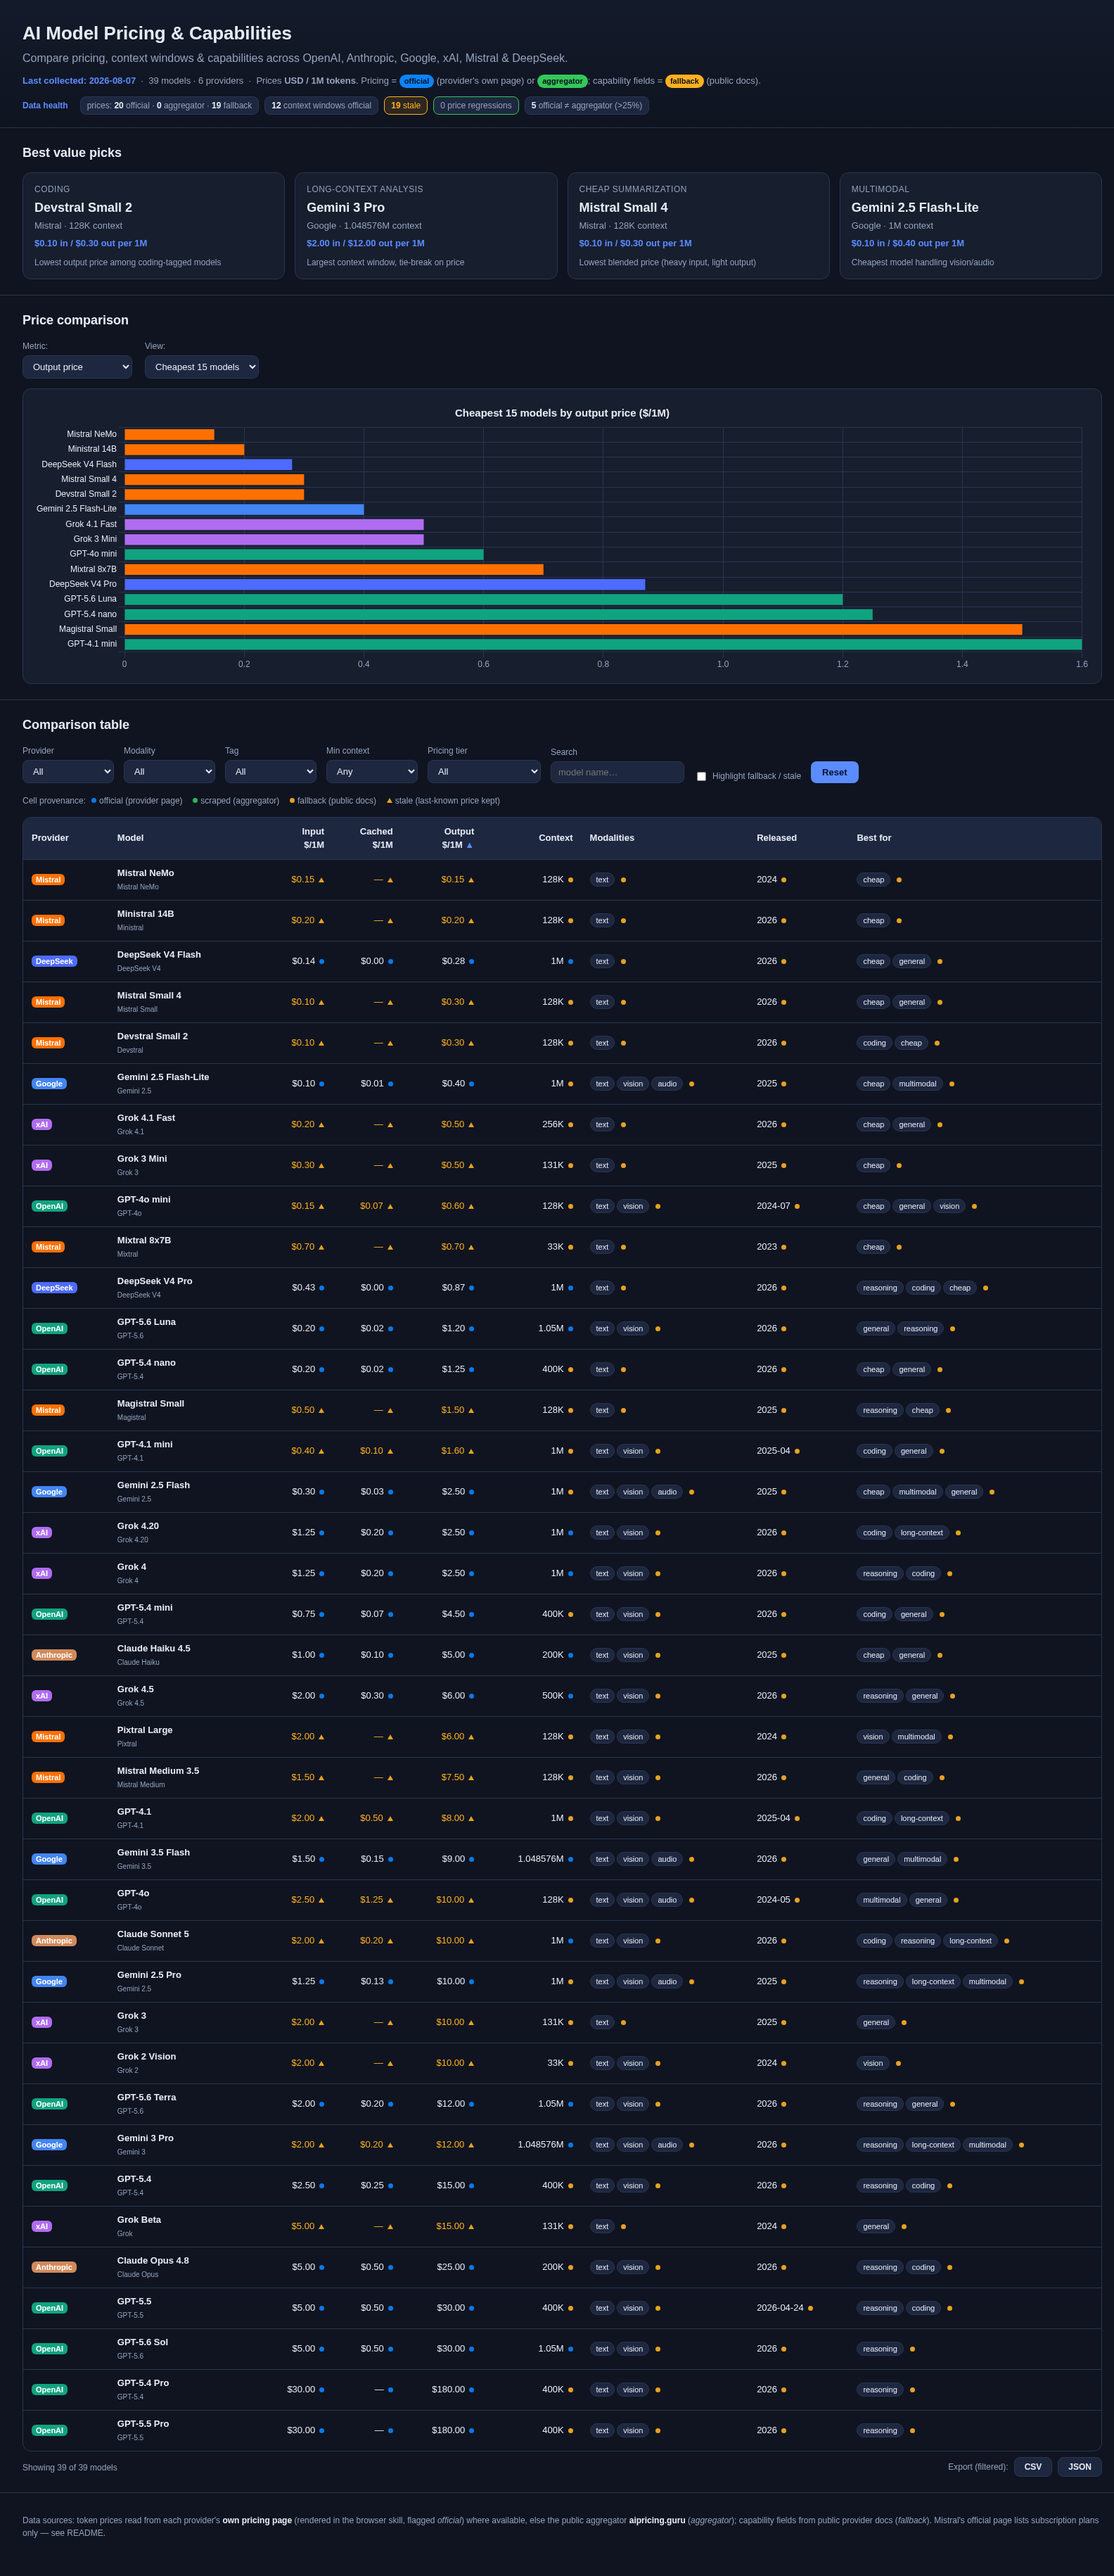
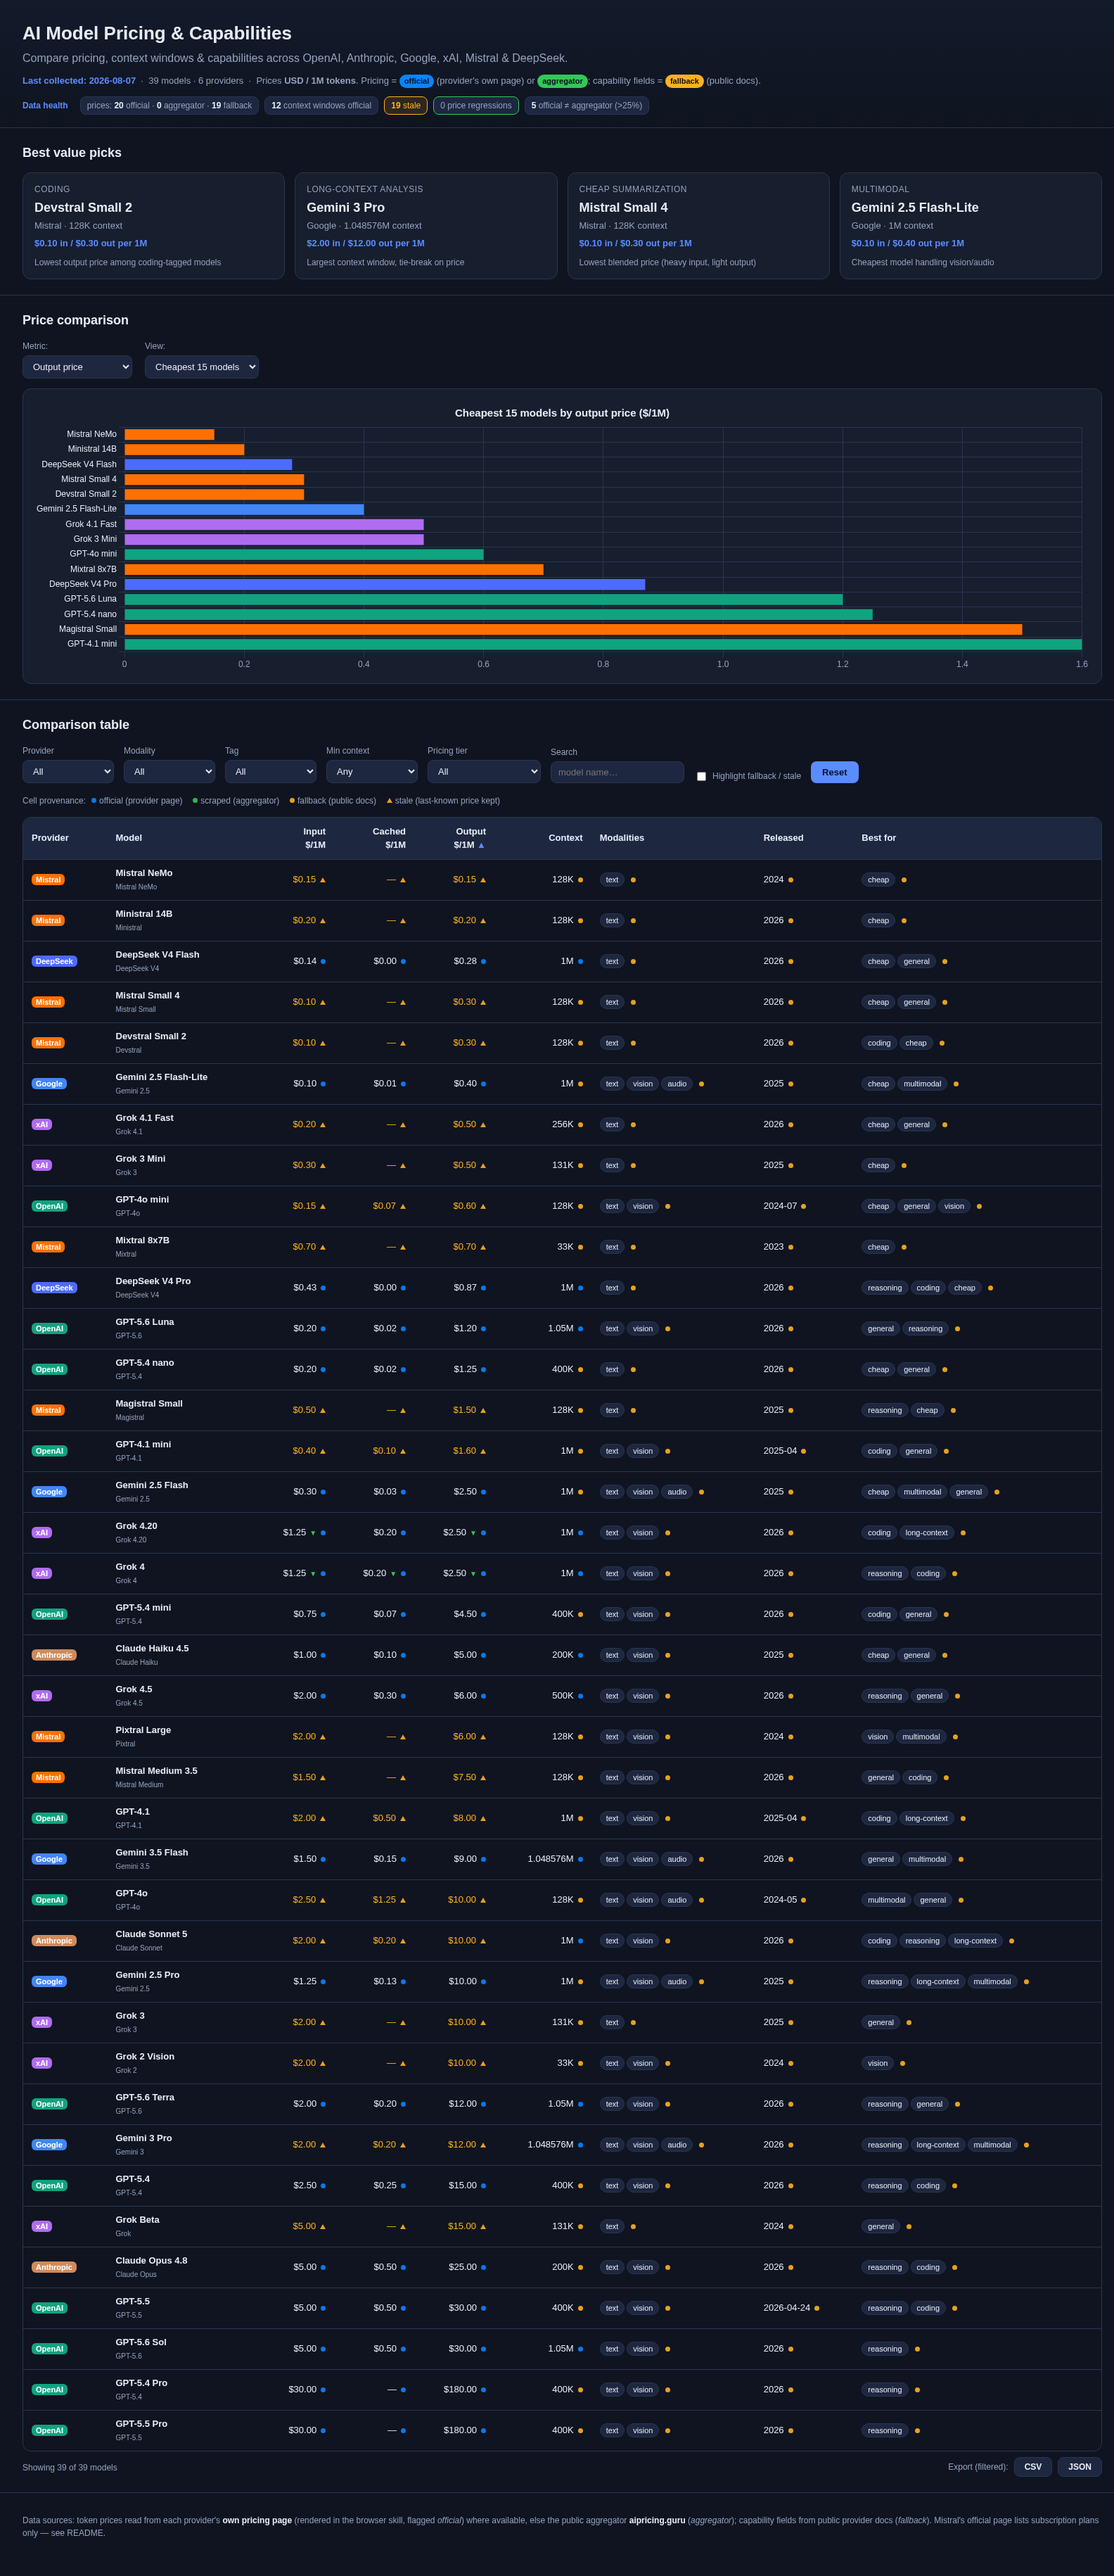
dashboard: per-model price-change badges from price_history.json (#114)

diff --git a/apps/model-pricing-dashboard/app.js b/apps/model-pricing-dashboard/app.js
@@ -25,7 +25,11 @@ let sortDir = "asc";
 let chart = null;
 
 // -------------------------------------------------------------------------
-init();
+// Browser bootstrap. Guarded so the module can be require()'d under Node for
+// the no-DOM regression tests (test_changes.js) without auto-running init().
+if (typeof window !== "undefined" && typeof document !== "undefined") {
+  init();
+}
 
 // Per-model price changes vs the previous snapshot, keyed by "Provider/Name"
 // -> {field: {from, to, dir}}. Built from data/price_history.json (the two most
@@ -53,6 +57,54 @@ function renderMeta() {
     "Last collected: " + d.toISOString().slice(0, 10);
   document.getElementById("counts").textContent =
     `${DATA.model_count} models · ${DATA.provider_count} providers`;
+}
+
+// Fetch price_history.json and derive per-model price changes between the two
+// most recent snapshots. Pure derivation lives in deriveChanges() so it can be
+// regression-tested without a network/DOM.
+async function loadChanges() {
+  try {
+    const r = await fetch("data/price_history.json");
+    if (!r.ok) return {};
+    const hist = await r.json();
+    return deriveChanges(hist);
+  } catch (e) {
+    return {}; // no history / unparseable -> no badges, never break the table
+  }
+}
+
+// history: [{date, prices: {"Provider/Name": {input,cached,output,provenance}}}]
+// Returns {"Provider/Name": {field: {from,to,dir,date}}} for the latest vs the
+// previous snapshot. dir: "up" | "down" | "same". Only numeric, actually-changed
+// fields are included. Pure function — unit-tested (test_changes.js).
+function deriveChanges(history) {
+  const out = {};
+  if (!Array.isArray(history) || history.length < 2) return out;
+  const prev = history[history.length - 2];
+  const cur = history[history.length - 1];
+  if (!prev || !cur || !prev.prices || !cur.prices) return out;
+  const fields = { input: "input_price", cached: "cached_price", output: "output_price" };
+  for (const key of Object.keys(cur.prices)) {
+    const p = prev.prices[key];
+    if (!p) continue;
+    for (const [histField, modelField] of Object.entries(fields)) {
+      const from = p[histField];
+      const to = cur.prices[key][histField];
+      if (typeof from !== "number" || typeof to !== "number") continue;
+      if (!isFinite(from) || !isFinite(to)) continue;
+      if (from === to) continue;
+      (out[key] = out[key] || {})[modelField] = {
+        from, to, dir: to > from ? "up" : "down", date: cur.date || "",
+      };
+    }
+  }
+  return out;
+}
+
+// Exported for the no-DOM regression test (test_changes.js imports via a
+// CommonJS shim); harmless in the browser.
+if (typeof module !== "undefined" && module.exports) {
+  module.exports = { deriveChanges };
 }
 
 // Read-only data-health summary: provenance mix + freshness + drift, all
@@ -229,18 +281,33 @@ function rowEl(m) {
   const cls = PROVIDER_CLASS[m.provider] || "";
   if (m.price_stale) tr.classList.add("row-stale");
 
+  // Price-change badge: ▲/▼ next to the value when this model's price moved vs
+  // the previous snapshot (from data/price_history.json). Tooltip shows old -> new.
+  const chg = CHANGES[`${m.provider}/${m.name}`] || {};
+  const changeBadge = (field) => {
+    const c = chg[field];
+    if (!c) return "";
+    const arrow = c.dir === "up" ? "▲" : "▼";
+    const title =
+      `${arrow} ${field.replace("_", " ")}: ${price(c.from)} -> ${price(c.to)}` +
+      (c.date ? ` (${c.date.slice(0, 10)})` : "");
+    return `<span class="chg chg-${c.dir}" title="${title}">${arrow}</span>`;
+  };
+
   // Provenance-bearing cell: adds a coloured dot + tooltip + cell-<kind> class.
   const cell = (field, inner, extra = "") => {
     const mk = provMark(field, m);
     return `<td class="cell-${mk.kind}${extra ? " " + extra : ""}" title="${mk.title}">${inner}<span class="pdot pdot-${mk.kind}"></span></td>`;
   };
+  // Price cells carry the provenance dot AND the change badge.
+  const priceCell = (field) => cell(field, price(m[field]) + changeBadge(field), "num");
 
   tr.innerHTML = `
     <td><span class="prov-badge ${cls}">${m.provider}</span></td>
     <td><b>${m.name}</b><br /><span class="prov-dot">${m.family}</span></td>
-    ${cell("input_price", price(m.input_price), "num")}
-    ${cell("cached_price", price(m.cached_price), "num")}
-    ${cell("output_price", price(m.output_price), "num")}
+    ${priceCell("input_price")}
+    ${priceCell("cached_price")}
+    ${priceCell("output_price")}
     ${cell("context_window", ctx, "num")}
     ${cell("modalities", m.modalities.map((x) => `<span class="pill">${x}</span>`).join(""))}
     ${cell("release_date", m.release_date)}

diff --git a/apps/model-pricing-dashboard/test_changes.js b/apps/model-pricing-dashboard/test_changes.js
@@ -1,0 +1,79 @@
+/* Regression tests for app.js deriveChanges() — the per-model price-change
+ * badge derivation (issue #114). Run directly:
+ *     node test_changes.js
+ * (also exercised from test_changes.py via subprocess so it runs under pytest).
+ * No DOM, no network — deriveChanges is exported via a CommonJS shim. */
+
+const assert = require("assert");
+const { deriveChanges } = require("./app.js");
+
+let passed = 0;
+function test(name, fn) {
+  try {
+    fn();
+    console.log("  ok   " + name);
+    passed++;
+  } catch (e) {
+    console.log("  FAIL " + name + " :: " + e.message);
+    process.exitCode = 1;
+  }
+}
+
+const snap = (date, prices) => ({ date, prices });
+
+test("no change -> empty", () => {
+  const h = [
+    snap("2026-08-01", { "xAI/Grok 4": { input: 3.0, output: 15.0 } }),
+    snap("2026-08-07", { "xAI/Grok 4": { input: 3.0, output: 15.0 } }),
+  ];
+  assert.deepStrictEqual(deriveChanges(h), {});
+});
+
+test("up + down detected with from/to/dir/date", () => {
+  const h = [
+    snap("2026-08-01", {
+      "xAI/Grok 4": { input: 3.0, cached: 0.75, output: 15.0 },
+      "OpenAI/GPT-4o": { input: 2.5, output: 10.0 },
+    }),
+    snap("2026-08-07", {
+      "xAI/Grok 4": { input: 1.25, cached: 0.2, output: 2.5 }, // all down
+      "OpenAI/GPT-4o": { input: 3.5, output: 10.0 },          // input up, output same
+    }),
+  ];
+  const c = deriveChanges(h);
+  assert.deepStrictEqual(c["xAI/Grok 4"].input_price,
+    { from: 3.0, to: 1.25, dir: "down", date: "2026-08-07" });
+  assert.deepStrictEqual(c["xAI/Grok 4"].output_price,
+    { from: 15.0, to: 2.5, dir: "down", date: "2026-08-07" });
+  assert.strictEqual(c["OpenAI/GPT-4o"].input_price.dir, "up");
+  assert.ok(!("output_price" in c["OpenAI/GPT-4o"]), "unchanged field omitted");
+});
+
+test("new/removed models and missing fields are skipped safely", () => {
+  const h = [
+    snap("2026-08-01", { "A/X": { input: 1.0 } }),
+    snap("2026-08-07", {
+      "A/X": { input: 1.0, output: 5.0 }, // output appeared (prev missing) -> skip
+      "B/Y": { input: 2.0 },              // new model (no prev) -> skip
+    }),
+  ];
+  assert.deepStrictEqual(deriveChanges(h), {});
+});
+
+test("non-numeric / null values ignored", () => {
+  const h = [
+    snap("2026-08-01", { "A/X": { cached: null } }),
+    snap("2026-08-07", { "A/X": { cached: 0.5 } }),
+  ];
+  assert.deepStrictEqual(deriveChanges(h), {});
+});
+
+test("fewer than two snapshots -> empty; malformed tolerated", () => {
+  assert.deepStrictEqual(deriveChanges([]), {});
+  assert.deepStrictEqual(deriveChanges([snap("d", {})]), {});
+  assert.deepStrictEqual(deriveChanges(null), {});
+  assert.deepStrictEqual(deriveChanges([{ date: "a" }, { date: "b" }]), {});
+});
+
+console.log(`\n${passed} test(s) passed`);
+if (process.exitCode) throw new Error("deriveChanges tests failed");

diff --git a/apps/model-pricing-dashboard/styles.css b/apps/model-pricing-dashboard/styles.css
@@ -201,6 +201,17 @@ tbody tr:hover { background: var(--panel); }
   border-bottom: 7px solid var(--fb);
 }
 tbody tr.row-stale td.cell-stale { color: var(--fb); }
+/* price-change badge: ▲ up (price rose, red) / ▼ down (price fell, green) */
+.chg {
+  display: inline-block;
+  margin-left: 5px;
+  font-size: 10px;
+  font-weight: 700;
+  vertical-align: middle;
+  cursor: help;
+}
+.chg-up { color: #ff453a; }
+.chg-down { color: var(--agg); }
 body.hl-fallback td.cell-fb { background: rgba(255, 176, 32, 0.1); }
 body.hl-fallback td.cell-stale { background: rgba(255, 176, 32, 0.22); }
 

diff --git a/apps/model-pricing-dashboard/test_changes.py b/apps/model-pricing-dashboard/test_changes.py
@@ -1,0 +1,27 @@
+"""Pytest shim for the price-change badge regression tests (issue #114).
+
+The badge derivation lives in app.js (deriveChanges) and is exercised by the
+no-DOM/no-network Node tests in test_changes.js. This wrapper runs that file
+via `node` so the JS logic is covered by the same `pytest` invocation as the
+Python scraper tests. Skips cleanly if Node isn't installed.
+"""
+
+import shutil
+import subprocess
+from pathlib import Path
+
+import pytest
+
+_APP = Path(__file__).resolve().parent
+
+
+@pytest.mark.skipif(shutil.which("node") is None, reason="node not installed")
+def test_derive_changes_node():
+    res = subprocess.run(
+        ["node", "test_changes.js"],
+        cwd=_APP, capture_output=True, text=True, timeout=60,
+    )
+    assert res.returncode == 0, (
+        f"node test_changes.js failed (rc={res.returncode})\n{res.stdout}\n{res.stderr}"
+    )
+    assert "test(s) passed" in res.stdout
